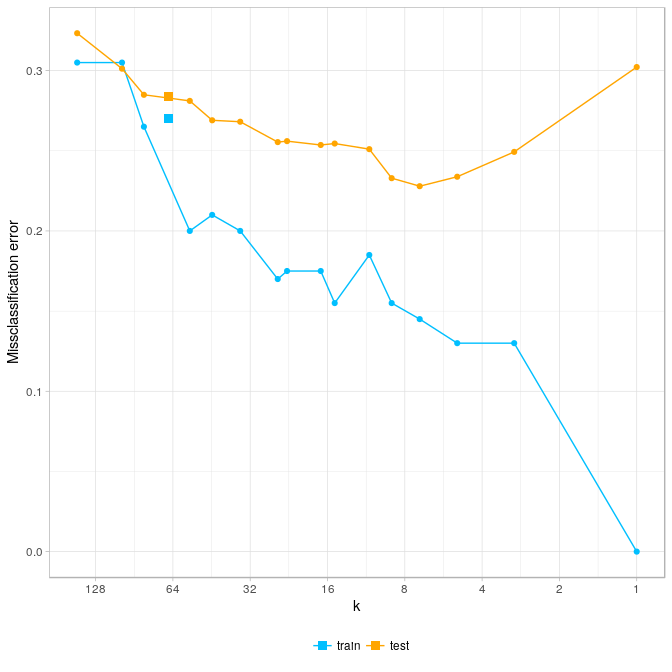
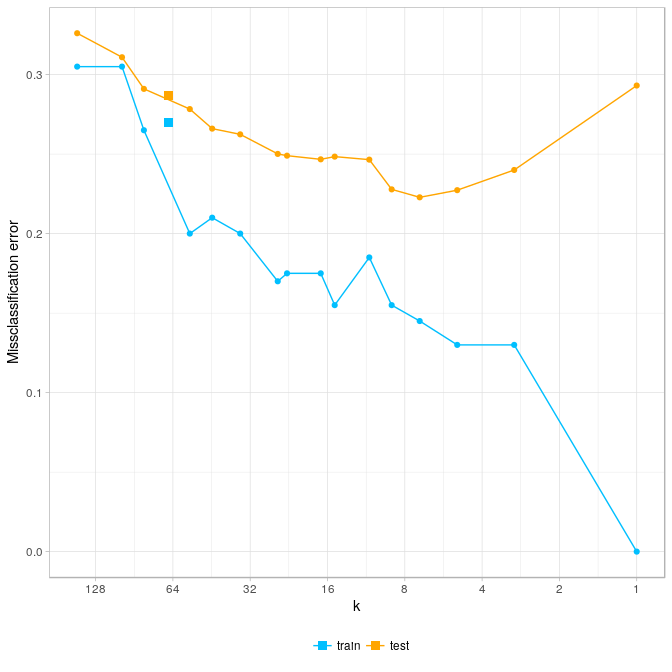
fixed seed

diff --git a/02-Overview-Supervised-Learning.md b/02-Overview-Supervised-Learning.md
@@ -163,16 +163,17 @@ Test error for k-nearest-neighbors
 Now we want to know the test error of the k-nearest-neighbor algorithm for different values of k. For reliable results we need more data. The book describes in detail how the data was simulated (also see documentation of mixture.example dataset).
 
 ``` r
+set.seed(1986)
 means.indices = c(sample(1:10, 5000, replace = TRUE), sample(11:20, 5000, replace = TRUE))
 X = me$means[means.indices, ] + mvtnorm::rmvnorm(10000, rep(0, 2), .2 * diag(2))
 df.test = data.frame(x1 = X[ , 1], x2 = X[ , 2], y = c(rep(0, 5000), rep(1, 5000)))
 knitr::kable(df.test[c(1, 10000), ]) # show first and last simulated point
 ```
 
-|       |          x1|         x2|    y|
-|-------|-----------:|----------:|----:|
-| 1     |  -0.0101802|  0.3120567|    0|
-| 10000 |  -0.9336943|  0.5191334|    1|
+|       |         x1|          x2|    y|
+|-------|----------:|-----------:|----:|
+| 1     |  3.1590572|   1.2697039|    0|
+| 10000 |  0.8279017|  -0.2248907|    1|
 
 MLR makes tuning very convenient. We could use more advanced techniques to measure the test error but the book uses a simple holdout test set at this point with a very high test set split rate of .98 (200 training samples vs 10000 test samples).
 
